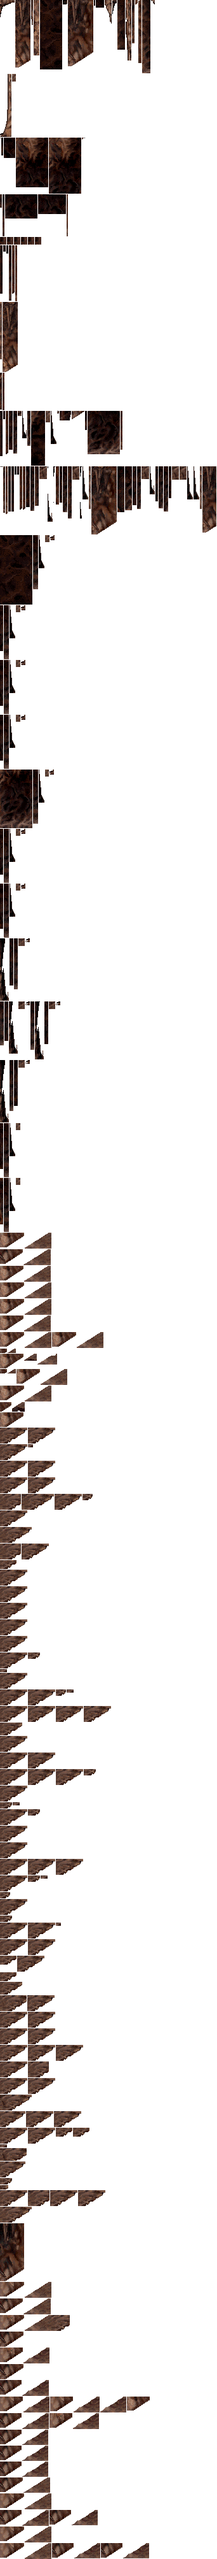
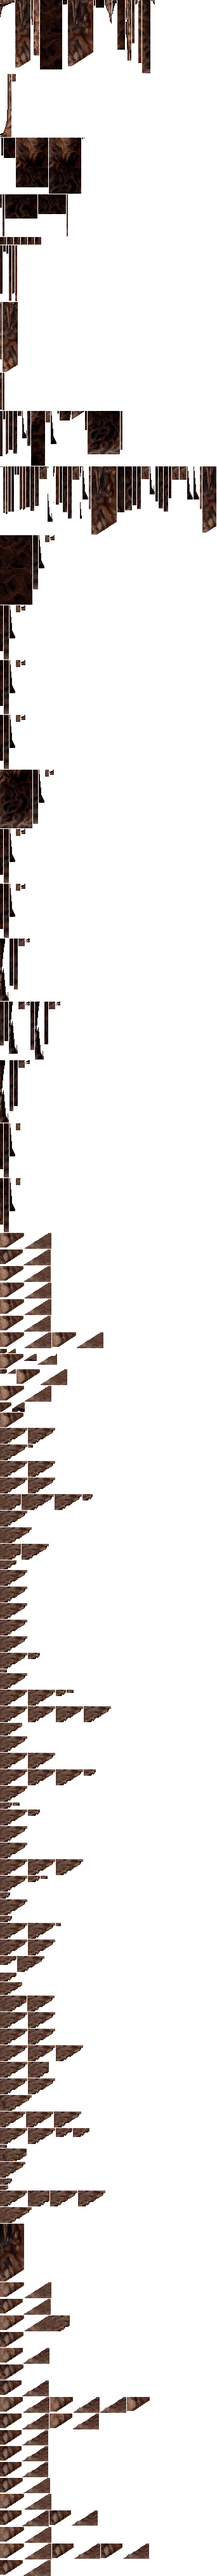
Blend approved floor joins in level 4 room 20

diff --git a/tests/test_cavern_retouch.py b/tests/test_cavern_retouch.py
@@ -18,8 +18,8 @@ from pop2.terrain import LevelMap
 class BundledCavernRetouchTests(unittest.TestCase):
     def test_level_four_bundle_is_separate_and_only_targets_approved_rooms(self):
         assets = retouch_assets(4)
-        self.assertEqual(len(assets), 87)
-        self.assertEqual({key[0] for key in assets}, {0, 1, 2, 4, 5, 6, 8, 9, 10, 11, 12, 13, 14, 15, 16, 17, 18, 21, 22, 24, 25, 26, 27})
+        self.assertEqual(len(assets), 89)
+        self.assertEqual({key[0] for key in assets}, {0, 1, 2, 4, 5, 6, 8, 9, 10, 11, 12, 13, 14, 15, 16, 17, 18, 19, 21, 22, 24, 25, 26, 27})
         key, (record, image) = next(iter(assets.items()))
         self.assertEqual(image.size, (record['source_rect'][2] - record['source_rect'][0],
                                       record['source_rect'][3] - record['source_rect'][1]))
@@ -166,7 +166,7 @@ class CavernRetouchTests(PreviousArtworkMixin, unittest.TestCase):
 
     def test_level_four_other_rooms_keep_their_original_wall_art(self):
         with patch('pop2.caverns.retouched_door_sprite', side_effect=lambda level, room, command, source: source):
-            for room in set(range(32)) - {0, 1, 2, 4, 5, 6, 8, 9, 10, 11, 12, 13, 14, 15, 16, 17, 18, 21, 22, 24, 25, 26, 27}:
+            for room in set(range(32)) - {0, 1, 2, 4, 5, 6, 8, 9, 10, 11, 12, 13, 14, 15, 16, 17, 18, 19, 21, 22, 24, 25, 26, 27}:
                 with self.subTest(room=room):
                     original = cavern_room(room, level_number=4)
                     edited = cavern_room(room, level_number=4, retouched=True)

diff --git a/pop2/cavern_retouch.py b/pop2/cavern_retouch.py
@@ -87,7 +87,7 @@ def retouched_door_sprite(level, room, command, source):
 
 def retouched_sprite(room, command, source, *, level_number=3):
     approved = (room in (0, 1, 2, 3, 4, 5, 6, 7, 8, 9, 10, 11, 12, 13, 14, 15, 16, 18, 20, 21, 23, 24, 25, 26, 27, 29, 30, 31) if level_number == 3
-                else room in (0, 1, 2, 4, 5, 6, 8, 9, 10, 11, 12, 13, 14, 15, 16, 17, 18, 21, 22, 24, 25, 26, 27) if level_number == 4
+                else room in (0, 1, 2, 4, 5, 6, 8, 9, 10, 11, 12, 13, 14, 15, 16, 17, 18, 19, 21, 22, 24, 25, 26, 27) if level_number == 4
                 else level_number == 5 and room in (0, 1, 3, 5, 6, 8, 10, 12, 13, 14, 15, 16, 17, 18, 21, 22, 24))
     if not approved or len(command) < 8 or command[7] != 4:
         return source

diff --git a/docs/CAVERN_ARTWORK.md b/docs/CAVERN_ARTWORK.md
@@ -440,3 +440,4 @@ the separate `rendered/level3-room30-joins-v1/` reference.
[4 lines of base64/hex data omitted]
